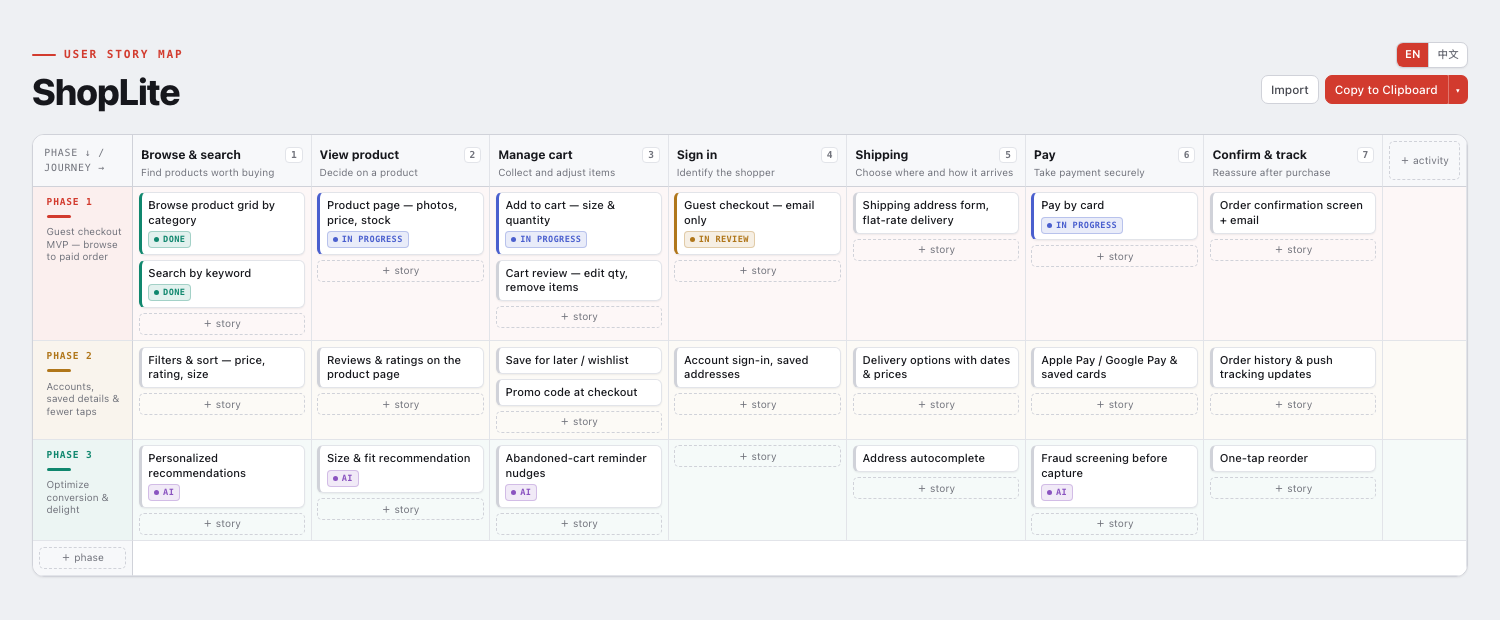
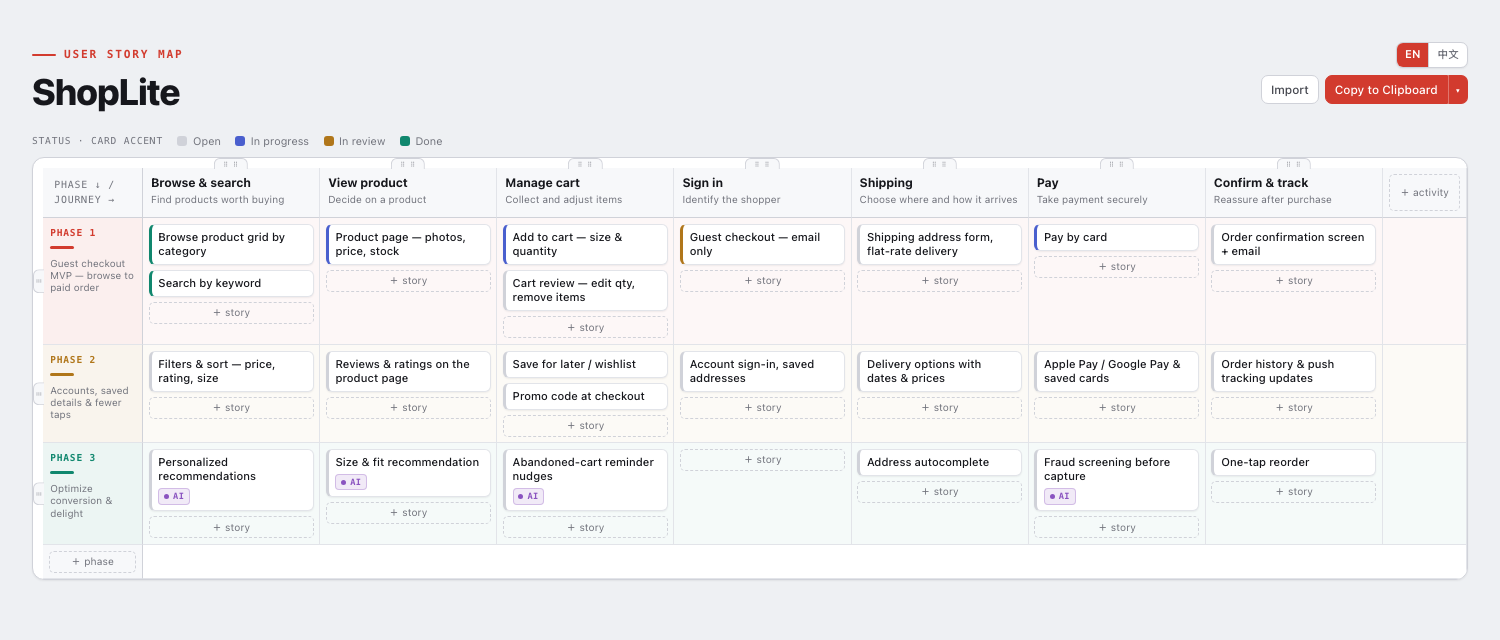
Fifth review round on user-story-map + reposition repo as a skill collection
Map:
- Drag handles are now always-visible ⠿ tabs protruding out of the grid
  edge — top-center of each journey column, left edge of each phase rail
  (grid gains a 10px gutter so the tabs have room)
- Remove the 1..9 numbering badges from column headers
- Status no longer renders as a pill (pills are tags only); a legend
  above the grid explains the status accent colours

Repo:
- README reworked as a growing multi-skill collection with an install
  section, skills index table, per-skill docs, and repo-layout notes
- Plugin/marketplace descriptions and GitHub repo description updated
  to match

diff --git a/examples/shopping-checkout.html b/examples/shopping-checkout.html
@@ -66,28 +66,32 @@
   .tag .d{width:5px;height:5px;border-radius:50%;background:var(--tc,var(--ink-3))}
   .t0{--tc:var(--p4)}.t1{--tc:var(--p5)}.t2{--tc:var(--p1)}.t3{--tc:var(--p2)}.t4{--tc:var(--p3)}.t5{--tc:var(--p0)}
 
-  .scroll{overflow:auto;max-height:80vh;margin-top:1rem;border:1px solid var(--line-2);border-radius:12px;background:var(--surface);box-shadow:var(--shadow);scrollbar-width:thin}
-  .map{display:grid}
+  .legend{display:flex;flex-wrap:wrap;align-items:center;gap:.9rem;margin-top:.9rem;font-size:.68rem;color:var(--ink-3)}
+  .legend .lt{font-family:var(--mono);font-size:.6rem;letter-spacing:.08em;text-transform:uppercase}
+  .legend .li{display:inline-flex;align-items:center;gap:.35rem}
+  .legend .sw{width:10px;height:10px;border-radius:3px;background:var(--stc)}
+
+  .scroll{overflow:auto;max-height:80vh;margin-top:.5rem;border:1px solid var(--line-2);border-radius:12px;background:var(--surface);box-shadow:var(--shadow);scrollbar-width:thin}
+  .map{display:grid;padding:10px 0 0 10px}
   .cell{border-right:1px solid var(--line);border-bottom:1px solid var(--line)}
 
-  .corner{position:sticky;top:0;left:0;z-index:30;background:var(--surface-2);border-bottom:1px solid var(--line-2);border-right:1px solid var(--line-2);padding:.6rem .7rem;display:flex;align-items:flex-end}
+  .corner{position:sticky;top:10px;left:10px;z-index:30;background:var(--surface-2);border-bottom:1px solid var(--line-2);border-right:1px solid var(--line-2);padding:.6rem .7rem;display:flex;align-items:flex-end}
   .corner span{font-family:var(--mono);font-size:.62rem;letter-spacing:.08em;text-transform:uppercase;color:var(--ink-3)}
 
-  .act{position:sticky;top:0;z-index:20;background:var(--surface-2);border-bottom:1px solid var(--line-2);padding:.7rem .5rem .45rem;min-width:0;cursor:grab}
+  .act{position:sticky;top:10px;z-index:20;background:var(--surface-2);border-bottom:1px solid var(--line-2);padding:.5rem .5rem .45rem;min-width:0;cursor:grab}
   .act .an{font-size:.76rem;font-weight:700;letter-spacing:-.01em;line-height:1.15;outline:none;border-radius:4px}
   .act .at{margin:.18rem 0 0;font-size:.63rem;line-height:1.25;color:var(--ink-3);outline:none;border-radius:4px}
   .act .actls{display:flex;align-items:center;gap:.3rem}
-  .act .seq{font-family:var(--mono);font-size:.6rem;color:var(--ink-3);font-weight:600;background:var(--surface);border:1px solid var(--line);border-radius:4px;padding:0 .3rem;margin-left:auto}
-  .x-act{margin-left:.25rem;opacity:0;border:0;background:none;color:var(--ink-3);cursor:pointer;font-size:.9rem;line-height:1;padding:0 .2rem}
+  .x-act{margin-left:auto;opacity:0;border:0;background:none;color:var(--ink-3);cursor:pointer;font-size:.9rem;line-height:1;padding:0 .2rem}
   .act:hover .x-act{opacity:.7}
   .x-act:hover{color:var(--brand);opacity:1}
   .act.dragging,.rail.dragging{opacity:.45}
-  .act::after{content:"⠿ ⠿";position:absolute;top:1px;left:50%;transform:translateX(-50%);font-size:.58rem;letter-spacing:.1em;color:var(--ink-3);opacity:0;transition:opacity .12s;pointer-events:none}
-  .act:hover::after{opacity:.85}
-  .rail::after{content:"⠿";position:absolute;left:3px;top:50%;transform:translateY(-50%);font-size:.58rem;color:var(--ink-3);opacity:0;transition:opacity .12s;pointer-events:none;writing-mode:vertical-rl}
-  .rail:hover::after{opacity:.85}
+  .act::after{content:"⠿ ⠿";position:absolute;top:-10px;left:50%;transform:translateX(-50%);font-size:.5rem;letter-spacing:.12em;line-height:10px;color:var(--ink-3);background:var(--surface-2);border:1px solid var(--line-2);border-bottom:0;border-radius:6px 6px 0 0;padding:0 .5rem;cursor:grab;transition:color .12s,background .12s}
+  .act:hover::after{color:var(--ink);background:var(--line)}
+  .rail::after{content:"⠿";position:absolute;left:-10px;top:50%;transform:translateY(-50%);writing-mode:vertical-rl;font-size:.5rem;line-height:10px;color:var(--ink-3);background:var(--surface-2);border:1px solid var(--line-2);border-right:0;border-radius:6px 0 0 6px;padding:.5rem 0;cursor:grab;transition:color .12s,background .12s}
+  .rail:hover::after{color:var(--ink);background:var(--line)}
 
-  .rail{position:sticky;left:0;z-index:20;background:color-mix(in srgb,var(--pc) var(--band),var(--surface));border-right:1px solid var(--line-2);padding:.5rem .45rem .5rem .85rem;display:flex;flex-direction:column;gap:.2rem;min-width:0;cursor:grab}
+  .rail{position:sticky;left:10px;z-index:20;background:color-mix(in srgb,var(--pc) var(--band),var(--surface));border-right:1px solid var(--line-2);padding:.5rem .45rem;display:flex;flex-direction:column;gap:.2rem;min-width:0;cursor:grab}
   .rail .pn{font-family:var(--mono);font-size:.6rem;letter-spacing:.08em;text-transform:uppercase;font-weight:700;color:var(--pc);outline:none}
   .rail .pt{font-size:.76rem;font-weight:700;letter-spacing:-.01em;line-height:1.12;outline:none;border-radius:4px}
   .rail .pg{font-size:.62rem;line-height:1.25;color:var(--ink-3);outline:none;border-radius:4px;margin-top:2px}
@@ -101,7 +105,6 @@
   .st-open{--stc:var(--line-2)}.st-progress{--stc:var(--p3)}.st-review{--stc:var(--p1)}.st-done{--stc:var(--p2)}
   .card .ctrls .stbtn{color:var(--stc)}
   .card.st-open .ctrls .stbtn{color:var(--ink-3)}
-  .card .tag.stpill{--tc:var(--stc)}
   .card.dragging{opacity:.4}
   .card p{margin:0;font-size:.7rem;line-height:1.28;color:var(--ink);font-weight:500;outline:none;word-break:break-word}
   .card .tags{display:flex;flex-wrap:wrap;gap:.2rem;margin-top:.28rem}
@@ -112,8 +115,8 @@
   .card .grip{cursor:grab;color:var(--ink-3);font-size:.58rem;display:grid;place-items:center;width:18px;height:18px;background:var(--surface-2);border-radius:4px}
   .addcard{border:1px dashed var(--line-2);background:none;color:var(--ink-3);border-radius:5px;padding:.15rem;font:inherit;font-size:.64rem;cursor:pointer}
   .addcard:hover{color:var(--ink);border-color:var(--ink-faint,var(--ink-3))}
-  .addact{position:sticky;top:0;z-index:20;background:var(--surface-2);border-bottom:1px solid var(--line-2);padding:.35rem;display:flex}
-  .addphase{position:sticky;left:0;z-index:20;background:var(--surface-2);border-right:1px solid var(--line-2);padding:.35rem;display:flex}
+  .addact{position:sticky;top:10px;z-index:20;background:var(--surface-2);border-bottom:1px solid var(--line-2);padding:.35rem;display:flex}
+  .addphase{position:sticky;left:10px;z-index:20;background:var(--surface-2);border-right:1px solid var(--line-2);padding:.35rem;display:flex}
   .addhdr{flex:1;border:1px dashed var(--line-2);background:none;color:var(--ink-3);border-radius:5px;padding:.15rem .4rem;font:inherit;font-size:.64rem;cursor:pointer;white-space:nowrap}
   .addhdr:hover{color:var(--ink);border-color:var(--ink-3)}
   .filler{background:var(--surface)}
@@ -165,6 +168,7 @@
     </div>
   </header>
 
+  <div class="legend" id="legend"></div>
   <div class="scroll"><div class="map" id="map" role="grid" aria-label="User story map"></div></div>
 </div>
 
@@ -416,6 +420,7 @@
       import:"Import", copy:"Copy to Clipboard", download:"Download JSON", moreExport:"More export options",
       grip:"Drag to move",
       stLabel:{open:"Open",progress:"In progress",review:"In review",done:"Done"}, stCycle:"— click to change status",
+      legend:"Status · card accent",
       confirmHint:"Click again to confirm",
       addStory:"＋ story", newStory:"New story",
       newPhaseName:n=>"Phase "+n, newPhaseGoal:"New phase — describe the goal",
@@ -435,6 +440,7 @@
       import:"导入", copy:"复制到剪贴板", download:"下载 JSON", moreExport:"更多导出选项",
       grip:"拖动以移动",
       stLabel:{open:"待办",progress:"进行中",review:"审查中",done:"已完成"}, stCycle:"——点击切换状态",
+      legend:"状态 · 卡片左边框",
       confirmHint:"再次点击以确认",
       addStory:"＋ 故事", newStory:"新故事",
       newPhaseName:n=>"阶段 "+n, newPhaseGoal:"新阶段——描述目标",
@@ -459,6 +465,8 @@
     document.querySelectorAll("#lang-toggle button").forEach(b=>b.classList.toggle("on",b.dataset.lang===lang));
     $("io-cancel").textContent=T("cancel"); $("io-ok").textContent=T("loadBtn");
     $("tm-new").placeholder=T("tmNew"); $("tm-add").textContent=T("tmAdd");
+    $("legend").innerHTML = `<span class="lt">${esc(T("legend"))}</span>` +
+      STATUSES.map(s=>`<span class="li st-${s}"><span class="sw"></span>${esc(T("stLabel")[s])}</span>`).join("");
   }
 
   function clone(o){ return JSON.parse(JSON.stringify(o)); }
@@ -530,11 +538,10 @@
     map.style.gridTemplateColumns = `100px repeat(${acts.length}, minmax(132px,1fr)) 84px`;
 
     let h = `<div class="cell corner"><span>${T("corner")}</span></div>`;
-    acts.forEach((a,i)=>{
+    acts.forEach(a=>{
       h += `<div class="cell act" draggable="true" data-act="${a.id}">
         <div class="actls"><span class="an" contenteditable spellcheck="false" data-edit="act-name" data-id="${a.id}">${esc(a.name)}</span>
-        <button class="x-act" data-del-act="${a.id}" title="${T("removeAct")}">×</button>
-        <span class="seq">${i+1}</span></div>
+        <button class="x-act" data-del-act="${a.id}" title="${T("removeAct")}">×</button></div>
         <p class="at" contenteditable spellcheck="false" data-edit="act-task" data-id="${a.id}">${esc(a.task||"")}</p></div>`;
     });
     h += `<div class="cell addact"><button class="addhdr" id="add-activity" title="${T("addActTitle")}">${T("addActivity")}</button></div>`;
@@ -563,7 +570,7 @@
   function tagClass(t){ const i = state.tags.indexOf(t); return "t" + ((i<0?0:i)%6); }
   function tagPill(t){ return `<span class="tag ${tagClass(t)}"><span class="d"></span>${esc(t)}</span>`; }
   function cardHtml(s){
-    const pills = s.tags.map(tagPill).join("") + (s.status!=="open"?`<span class="tag stpill"><span class="d"></span>${esc(T("stLabel")[s.status])}</span>`:"");
+    const pills = s.tags.map(tagPill).join("");
     return `<div class="card st-${s.status}" draggable="true" data-card="${s.id}">
       <div class="ctrls">
         <span class="grip" title="${T("grip")}">⠿</span>

diff --git a/plugins/cavalry/skills/user-story-map/assets/story-map-template.html b/plugins/cavalry/skills/user-story-map/assets/story-map-template.html
@@ -66,28 +66,32 @@
   .tag .d{width:5px;height:5px;border-radius:50%;background:var(--tc,var(--ink-3))}
   .t0{--tc:var(--p4)}.t1{--tc:var(--p5)}.t2{--tc:var(--p1)}.t3{--tc:var(--p2)}.t4{--tc:var(--p3)}.t5{--tc:var(--p0)}
 
-  .scroll{overflow:auto;max-height:80vh;margin-top:1rem;border:1px solid var(--line-2);border-radius:12px;background:var(--surface);box-shadow:var(--shadow);scrollbar-width:thin}
-  .map{display:grid}
+  .legend{display:flex;flex-wrap:wrap;align-items:center;gap:.9rem;margin-top:.9rem;font-size:.68rem;color:var(--ink-3)}
+  .legend .lt{font-family:var(--mono);font-size:.6rem;letter-spacing:.08em;text-transform:uppercase}
+  .legend .li{display:inline-flex;align-items:center;gap:.35rem}
+  .legend .sw{width:10px;height:10px;border-radius:3px;background:var(--stc)}
+
+  .scroll{overflow:auto;max-height:80vh;margin-top:.5rem;border:1px solid var(--line-2);border-radius:12px;background:var(--surface);box-shadow:var(--shadow);scrollbar-width:thin}
+  .map{display:grid;padding:10px 0 0 10px}
   .cell{border-right:1px solid var(--line);border-bottom:1px solid var(--line)}
 
-  .corner{position:sticky;top:0;left:0;z-index:30;background:var(--surface-2);border-bottom:1px solid var(--line-2);border-right:1px solid var(--line-2);padding:.6rem .7rem;display:flex;align-items:flex-end}
+  .corner{position:sticky;top:10px;left:10px;z-index:30;background:var(--surface-2);border-bottom:1px solid var(--line-2);border-right:1px solid var(--line-2);padding:.6rem .7rem;display:flex;align-items:flex-end}
   .corner span{font-family:var(--mono);font-size:.62rem;letter-spacing:.08em;text-transform:uppercase;color:var(--ink-3)}
 
-  .act{position:sticky;top:0;z-index:20;background:var(--surface-2);border-bottom:1px solid var(--line-2);padding:.7rem .5rem .45rem;min-width:0;cursor:grab}
+  .act{position:sticky;top:10px;z-index:20;background:var(--surface-2);border-bottom:1px solid var(--line-2);padding:.5rem .5rem .45rem;min-width:0;cursor:grab}
   .act .an{font-size:.76rem;font-weight:700;letter-spacing:-.01em;line-height:1.15;outline:none;border-radius:4px}
   .act .at{margin:.18rem 0 0;font-size:.63rem;line-height:1.25;color:var(--ink-3);outline:none;border-radius:4px}
   .act .actls{display:flex;align-items:center;gap:.3rem}
-  .act .seq{font-family:var(--mono);font-size:.6rem;color:var(--ink-3);font-weight:600;background:var(--surface);border:1px solid var(--line);border-radius:4px;padding:0 .3rem;margin-left:auto}
-  .x-act{margin-left:.25rem;opacity:0;border:0;background:none;color:var(--ink-3);cursor:pointer;font-size:.9rem;line-height:1;padding:0 .2rem}
+  .x-act{margin-left:auto;opacity:0;border:0;background:none;color:var(--ink-3);cursor:pointer;font-size:.9rem;line-height:1;padding:0 .2rem}
   .act:hover .x-act{opacity:.7}
   .x-act:hover{color:var(--brand);opacity:1}
   .act.dragging,.rail.dragging{opacity:.45}
-  .act::after{content:"⠿ ⠿";position:absolute;top:1px;left:50%;transform:translateX(-50%);font-size:.58rem;letter-spacing:.1em;color:var(--ink-3);opacity:0;transition:opacity .12s;pointer-events:none}
-  .act:hover::after{opacity:.85}
-  .rail::after{content:"⠿";position:absolute;left:3px;top:50%;transform:translateY(-50%);font-size:.58rem;color:var(--ink-3);opacity:0;transition:opacity .12s;pointer-events:none;writing-mode:vertical-rl}
-  .rail:hover::after{opacity:.85}
+  .act::after{content:"⠿ ⠿";position:absolute;top:-10px;left:50%;transform:translateX(-50%);font-size:.5rem;letter-spacing:.12em;line-height:10px;color:var(--ink-3);background:var(--surface-2);border:1px solid var(--line-2);border-bottom:0;border-radius:6px 6px 0 0;padding:0 .5rem;cursor:grab;transition:color .12s,background .12s}
+  .act:hover::after{color:var(--ink);background:var(--line)}
+  .rail::after{content:"⠿";position:absolute;left:-10px;top:50%;transform:translateY(-50%);writing-mode:vertical-rl;font-size:.5rem;line-height:10px;color:var(--ink-3);background:var(--surface-2);border:1px solid var(--line-2);border-right:0;border-radius:6px 0 0 6px;padding:.5rem 0;cursor:grab;transition:color .12s,background .12s}
+  .rail:hover::after{color:var(--ink);background:var(--line)}
 
-  .rail{position:sticky;left:0;z-index:20;background:color-mix(in srgb,var(--pc) var(--band),var(--surface));border-right:1px solid var(--line-2);padding:.5rem .45rem .5rem .85rem;display:flex;flex-direction:column;gap:.2rem;min-width:0;cursor:grab}
+  .rail{position:sticky;left:10px;z-index:20;background:color-mix(in srgb,var(--pc) var(--band),var(--surface));border-right:1px solid var(--line-2);padding:.5rem .45rem;display:flex;flex-direction:column;gap:.2rem;min-width:0;cursor:grab}
   .rail .pn{font-family:var(--mono);font-size:.6rem;letter-spacing:.08em;text-transform:uppercase;font-weight:700;color:var(--pc);outline:none}
   .rail .pt{font-size:.76rem;font-weight:700;letter-spacing:-.01em;line-height:1.12;outline:none;border-radius:4px}
   .rail .pg{font-size:.62rem;line-height:1.25;color:var(--ink-3);outline:none;border-radius:4px;margin-top:2px}
@@ -101,7 +105,6 @@
   .st-open{--stc:var(--line-2)}.st-progress{--stc:var(--p3)}.st-review{--stc:var(--p1)}.st-done{--stc:var(--p2)}
   .card .ctrls .stbtn{color:var(--stc)}
   .card.st-open .ctrls .stbtn{color:var(--ink-3)}
-  .card .tag.stpill{--tc:var(--stc)}
   .card.dragging{opacity:.4}
   .card p{margin:0;font-size:.7rem;line-height:1.28;color:var(--ink);font-weight:500;outline:none;word-break:break-word}
   .card .tags{display:flex;flex-wrap:wrap;gap:.2rem;margin-top:.28rem}
@@ -112,8 +115,8 @@
   .card .grip{cursor:grab;color:var(--ink-3);font-size:.58rem;display:grid;place-items:center;width:18px;height:18px;background:var(--surface-2);border-radius:4px}
   .addcard{border:1px dashed var(--line-2);background:none;color:var(--ink-3);border-radius:5px;padding:.15rem;font:inherit;font-size:.64rem;cursor:pointer}
   .addcard:hover{color:var(--ink);border-color:var(--ink-faint,var(--ink-3))}
-  .addact{position:sticky;top:0;z-index:20;background:var(--surface-2);border-bottom:1px solid var(--line-2);padding:.35rem;display:flex}
-  .addphase{position:sticky;left:0;z-index:20;background:var(--surface-2);border-right:1px solid var(--line-2);padding:.35rem;display:flex}
+  .addact{position:sticky;top:10px;z-index:20;background:var(--surface-2);border-bottom:1px solid var(--line-2);padding:.35rem;display:flex}
+  .addphase{position:sticky;left:10px;z-index:20;background:var(--surface-2);border-right:1px solid var(--line-2);padding:.35rem;display:flex}
   .addhdr{flex:1;border:1px dashed var(--line-2);background:none;color:var(--ink-3);border-radius:5px;padding:.15rem .4rem;font:inherit;font-size:.64rem;cursor:pointer;white-space:nowrap}
   .addhdr:hover{color:var(--ink);border-color:var(--ink-3)}
   .filler{background:var(--surface)}
@@ -165,6 +168,7 @@
     </div>
   </header>
 
+  <div class="legend" id="legend"></div>
   <div class="scroll"><div class="map" id="map" role="grid" aria-label="User story map"></div></div>
 </div>
 
@@ -247,6 +251,7 @@
       import:"Import", copy:"Copy to Clipboard", download:"Download JSON", moreExport:"More export options",
       grip:"Drag to move",
       stLabel:{open:"Open",progress:"In progress",review:"In review",done:"Done"}, stCycle:"— click to change status",
+      legend:"Status · card accent",
       confirmHint:"Click again to confirm",
       addStory:"＋ story", newStory:"New story",
       newPhaseName:n=>"Phase "+n, newPhaseGoal:"New phase — describe the goal",
@@ -266,6 +271,7 @@
       import:"导入", copy:"复制到剪贴板", download:"下载 JSON", moreExport:"更多导出选项",
       grip:"拖动以移动",
       stLabel:{open:"待办",progress:"进行中",review:"审查中",done:"已完成"}, stCycle:"——点击切换状态",
+      legend:"状态 · 卡片左边框",
       confirmHint:"再次点击以确认",
       addStory:"＋ 故事", newStory:"新故事",
       newPhaseName:n=>"阶段 "+n, newPhaseGoal:"新阶段——描述目标",
@@ -290,6 +296,8 @@
     document.querySelectorAll("#lang-toggle button").forEach(b=>b.classList.toggle("on",b.dataset.lang===lang));
     $("io-cancel").textContent=T("cancel"); $("io-ok").textContent=T("loadBtn");
     $("tm-new").placeholder=T("tmNew"); $("tm-add").textContent=T("tmAdd");
+    $("legend").innerHTML = `<span class="lt">${esc(T("legend"))}</span>` +
+      STATUSES.map(s=>`<span class="li st-${s}"><span class="sw"></span>${esc(T("stLabel")[s])}</span>`).join("");
   }
 
   function clone(o){ return JSON.parse(JSON.stringify(o)); }
@@ -361,11 +369,10 @@
     map.style.gridTemplateColumns = `100px repeat(${acts.length}, minmax(132px,1fr)) 84px`;
 
     let h = `<div class="cell corner"><span>${T("corner")}</span></div>`;
-    acts.forEach((a,i)=>{
+    acts.forEach(a=>{
       h += `<div class="cell act" draggable="true" data-act="${a.id}">
         <div class="actls"><span class="an" contenteditable spellcheck="false" data-edit="act-name" data-id="${a.id}">${esc(a.name)}</span>
-        <button class="x-act" data-del-act="${a.id}" title="${T("removeAct")}">×</button>
-        <span class="seq">${i+1}</span></div>
+        <button class="x-act" data-del-act="${a.id}" title="${T("removeAct")}">×</button></div>
         <p class="at" contenteditable spellcheck="false" data-edit="act-task" data-id="${a.id}">${esc(a.task||"")}</p></div>`;
     });
     h += `<div class="cell addact"><button class="addhdr" id="add-activity" title="${T("addActTitle")}">${T("addActivity")}</button></div>`;
@@ -394,7 +401,7 @@
   function tagClass(t){ const i = state.tags.indexOf(t); return "t" + ((i<0?0:i)%6); }
   function tagPill(t){ return `<span class="tag ${tagClass(t)}"><span class="d"></span>${esc(t)}</span>`; }
   function cardHtml(s){
-    const pills = s.tags.map(tagPill).join("") + (s.status!=="open"?`<span class="tag stpill"><span class="d"></span>${esc(T("stLabel")[s.status])}</span>`:"");
+    const pills = s.tags.map(tagPill).join("");
     return `<div class="card st-${s.status}" draggable="true" data-card="${s.id}">
       <div class="ctrls">
         <span class="grip" title="${T("grip")}">⠿</span>

diff --git a/README.md b/README.md
@@ -1,6 +1,30 @@
 # Cavalry Collective — Claude Code Skills
 
-Skills for [Claude Code](https://claude.com/claude-code), published by [Cavalry Collective](https://github.com/Cavalry-Collective).
+A growing collection of [Claude Code](https://claude.com/claude-code) skills by [Cavalry Collective](https://github.com/Cavalry-Collective), published as the **`cavalry`** plugin. Install the plugin once and every skill in this repo becomes available under the `/cavalry:` namespace — new skills arrive with a plugin update, no re-install needed.
+
+## Install
+
+```
+/plugin marketplace add Cavalry-Collective/claude-skills
+/plugin install cavalry@cavalry-collective
+```
+
+Or copy an individual skill manually into your skills directory:
+
+```bash
+git clone https://github.com/Cavalry-Collective/claude-skills.git
+cp -R claude-skills/plugins/cavalry/skills/<skill-name> ~/.claude/skills/
+```
+
+## Skills
+
+| Skill | Invoke | What it does |
+| --- | --- | --- |
+| [user-story-map](#user-story-map) | `/cavalry:user-story-map` | Interactive drag-and-drop user story map — re-slice stories across release phases, rank everything, track status, tag themes |
+
+More skills are on the way — ⭐ watch the repo to catch new ones.
+
+---
 
 ## user-story-map
 
@@ -12,33 +36,17 @@ Ask Claude for a story map and it builds a **self-contained, interactive user st
 
 ### What you can do on the map
 
-- **Drag a card into any cell** to re-slice which phase & activity a story belongs to; drop above/below other cards to rank it — cards, columns and rows slide live while you drag, and a ⠿ grip appears on hover
-- **Drag a phase rail or activity header** onto another to reorder rows & columns
-- **Double-click any text** to edit inline; dashed `＋ story` / `＋ activity` / `＋ phase` buttons in the grid grow the map
-- **Track status per story** — open / in progress / in review / done; the card's accent stripe is coloured by status, and the ● button on each card cycles it
+- **Drag a card into any cell** to re-slice which phase & activity a story belongs to; drop above/below other cards to rank it — cards, columns and rows slide live while you drag
+- **Drag a column's top tab or a row's side tab** (the ⠿ handles protruding from the grid edge) to reorder the journey and the release phases
+- **Track status per story** — open / in progress / in review / done; the card's accent stripe is coloured by status (a legend above the grid explains the colours), and the ● button on each card cycles it
 - **Tag cross-cutting themes** (e.g. `AI`) via the ⌗ menu on each card — add a tag to a card, create new tags, or delete a tag from the whole map
+- **Double-click any text** to edit inline; dashed `＋ story` / `＋ activity` / `＋ phase` buttons in the grid grow the map
 - **EN | 中文 toggle** (top right) for the UI language
 - **Copy to Clipboard** (▾ for Download JSON) / **Import** — export the re-sliced map as JSON and paste it back to Claude to regenerate your downstream plan or tickets; edits persist in the browser's `localStorage`
 
-### Install
-
-As a Claude Code plugin (recommended):
-
-```
-/plugin marketplace add Cavalry-Collective/claude-skills
-/plugin install cavalry@cavalry-collective
-```
-
-Or manually — copy the skill into your skills directory:
-
-```bash
-git clone https://github.com/Cavalry-Collective/claude-skills.git
-cp -R claude-skills/plugins/cavalry/skills/user-story-map ~/.claude/skills/
-```
-
 ### Use
 
-Once installed, invoke it as a slash command (the `cavalry` plugin namespaces its skills):
+Once installed, invoke it as a slash command:
 
 ```
 /cavalry:user-story-map build a map for our mobile shopping app's checkout flow, three release phases
@@ -48,7 +56,7 @@ Or just ask in natural language — the skill triggers whenever you ask for a st
 
 > Build a user story map for our mobile shopping app's checkout flow, three release phases.
 
-Claude infers the three axes from your spec / plan / conversation — **activities** (the user journey, left→right), **phases** (release order, top→bottom), and **stories** (the cards) — fills the template, and publishes it. When you're done re-slicing, hit **Copy JSON** and paste the result back so Claude can regenerate the plan from your arrangement.
+Claude infers the three axes from your spec / plan / conversation — **activities** (the user journey, left→right), **phases** (release order, top→bottom), and **stories** (the cards) — fills the template, and publishes it. When you're done re-slicing, hit **Copy to Clipboard** and paste the result back so Claude can regenerate the plan from your arrangement.
 
 ### Data format
 
@@ -65,7 +73,23 @@ The map is driven by one JSON block:
 }
 ```
 
-Array order is display order; story order within a cell is its rank. Colours are auto-assigned per phase. `lang` (`"en"`/`"zh"`) sets the initial UI language.
+Array order is display order; story order within a cell is its rank. Cell tints are auto-assigned per phase; the card accent is coloured by `status` (`open` / `progress` / `review` / `done`). `lang` (`"en"`/`"zh"`) sets the initial UI language.
+
+---
+
+## Repo layout / adding a skill
+
+```
+.claude-plugin/marketplace.json      ← marketplace manifest
+plugins/cavalry/                     ← the `cavalry` plugin
+  .claude-plugin/plugin.json
+  skills/
+    user-story-map/                  ← one directory per skill
+      SKILL.md
+      assets/…
+```
+
+Every directory added under `plugins/cavalry/skills/` ships with the plugin and is invocable as `/cavalry:<skill-name>` — no manifest changes needed.
 
 ## License
 

diff --git a/plugins/cavalry/skills/user-story-map/SKILL.md b/plugins/cavalry/skills/user-story-map/SKILL.md
@@ -11,7 +11,7 @@ A story map has exactly three dimensions — clarify or infer all three before b
 
 1. **Activities (backbone)** — the columns, left→right, the user's journey / the sequence of high-level things they do (e.g. *Set up the role → Bring in candidates → Screen → …*). Order carries meaning; the user can re-drag it.
 2. **Phases (swimlanes)** — the rows, top→bottom = release order (Phase 1 = first / MVP). Each has a name and a one-line goal. The user can re-drag the order.
-3. **Stories** — the cards. Each belongs to exactly **one activity + one phase**; order within a cell is its rank (top = first). Each has a `status` — `open` (default) / `progress` / `review` / `done` — and the card's left border accent is coloured by status (cells are tinted by phase). Omit `status` unless the context clearly says work has started. Keep the text short and recognizable to a user (what they can do), not implementation detail.
+3. **Stories** — the cards. Each belongs to exactly **one activity + one phase**; order within a cell is its rank (top = first). Each has a `status` — `open` (default) / `progress` / `review` / `done` — and the card's left border accent is coloured by status (cells are tinted by phase; a legend above the grid explains the colours — status never renders as a pill, pills are for tags). Omit `status` unless the context clearly says work has started. Keep the text short and recognizable to a user (what they can do), not implementation detail.
 
 **Tags are cross-cutting themes**, not a card property to colour by. A story may carry any number of tags (e.g. `"AI"`, `"compliance"`); they render as small pills on the card, and the user can add/remove them per card or delete a tag everywhere via the ⌗ menu. Cards are always coloured by phase — never invent per-card colours. Seed tags only for genuine cross-cutting concerns you can identify (AI/automation is the common one).
 
@@ -33,7 +33,7 @@ Derive these from whatever context exists — a spec, a plan, a `tasks.md`, a de
    ```
    **The title is the product/initiative name only** (e.g. "Cavalry Hiring") — never append "Story Map", "— Story Map" or similar; the page's eyebrow already labels it a user story map. There is **no subtitle/description field** — the phase/activity goal lines carry the context. `lang` is optional and sets the initial UI language (`"en"` default or `"zh"`); the UI has an EN/中文 toggle either way, so set `"zh"` only when the user is clearly working in Chinese. The toggle switches UI chrome only — author titles, goals and story text in the user's language. Every `id` is a unique string; every story's `activity`/`phase` must match an existing id; every story tag should appear in the top-level `tags` list. Array order = display order. Colours are auto-assigned per phase (6 distinct hues, then cycle) — don't specify them.
 3. Write the filled file (e.g. to the scratchpad) and **publish it with the Artifact tool** (favicon `🗺`). The template already has a `<title>`; pass a one-line `description`. It is theme-aware and needs no other changes.
-4. Tell the user how to use it: **drag any card into another cell** to re-slice its phase/activity, and drop above/below other cards to rank it; **drag a phase rail or activity header** onto another to reorder rows/columns (the whole column/row slides live while dragging; a ⠿ grip shows on hover — top of a column, left of a rail); double-click text to edit; hover a card for ● (cycle status) / ⌗ (tags) / ×; the dashed **＋ story / ＋ activity / ＋ phase** buttons in the grid grow it; **Copy to Clipboard** (with a ▾ Download JSON option) exports the new arrangement (they can paste it back so you regenerate the downstream plan/tasks) and **Import** loads a saved one; the **EN | 中文** toggle at the top right switches the UI language.
+4. Tell the user how to use it: **drag any card into another cell** to re-slice its phase/activity, and drop above/below other cards to rank it; **drag a phase rail or activity header** onto another to reorder rows/columns (the whole column/row slides live while dragging — grab the ⠿ tab protruding from the top of a column or the left of a rail); double-click text to edit; hover a card for ● (cycle status) / ⌗ (tags) / ×; the dashed **＋ story / ＋ activity / ＋ phase** buttons in the grid grow it; **Copy to Clipboard** (with a ▾ Download JSON option) exports the new arrangement (they can paste it back so you regenerate the downstream plan/tasks) and **Import** loads a saved one; the **EN | 中文** toggle at the top right switches the UI language.
 
 ## Notes
 
